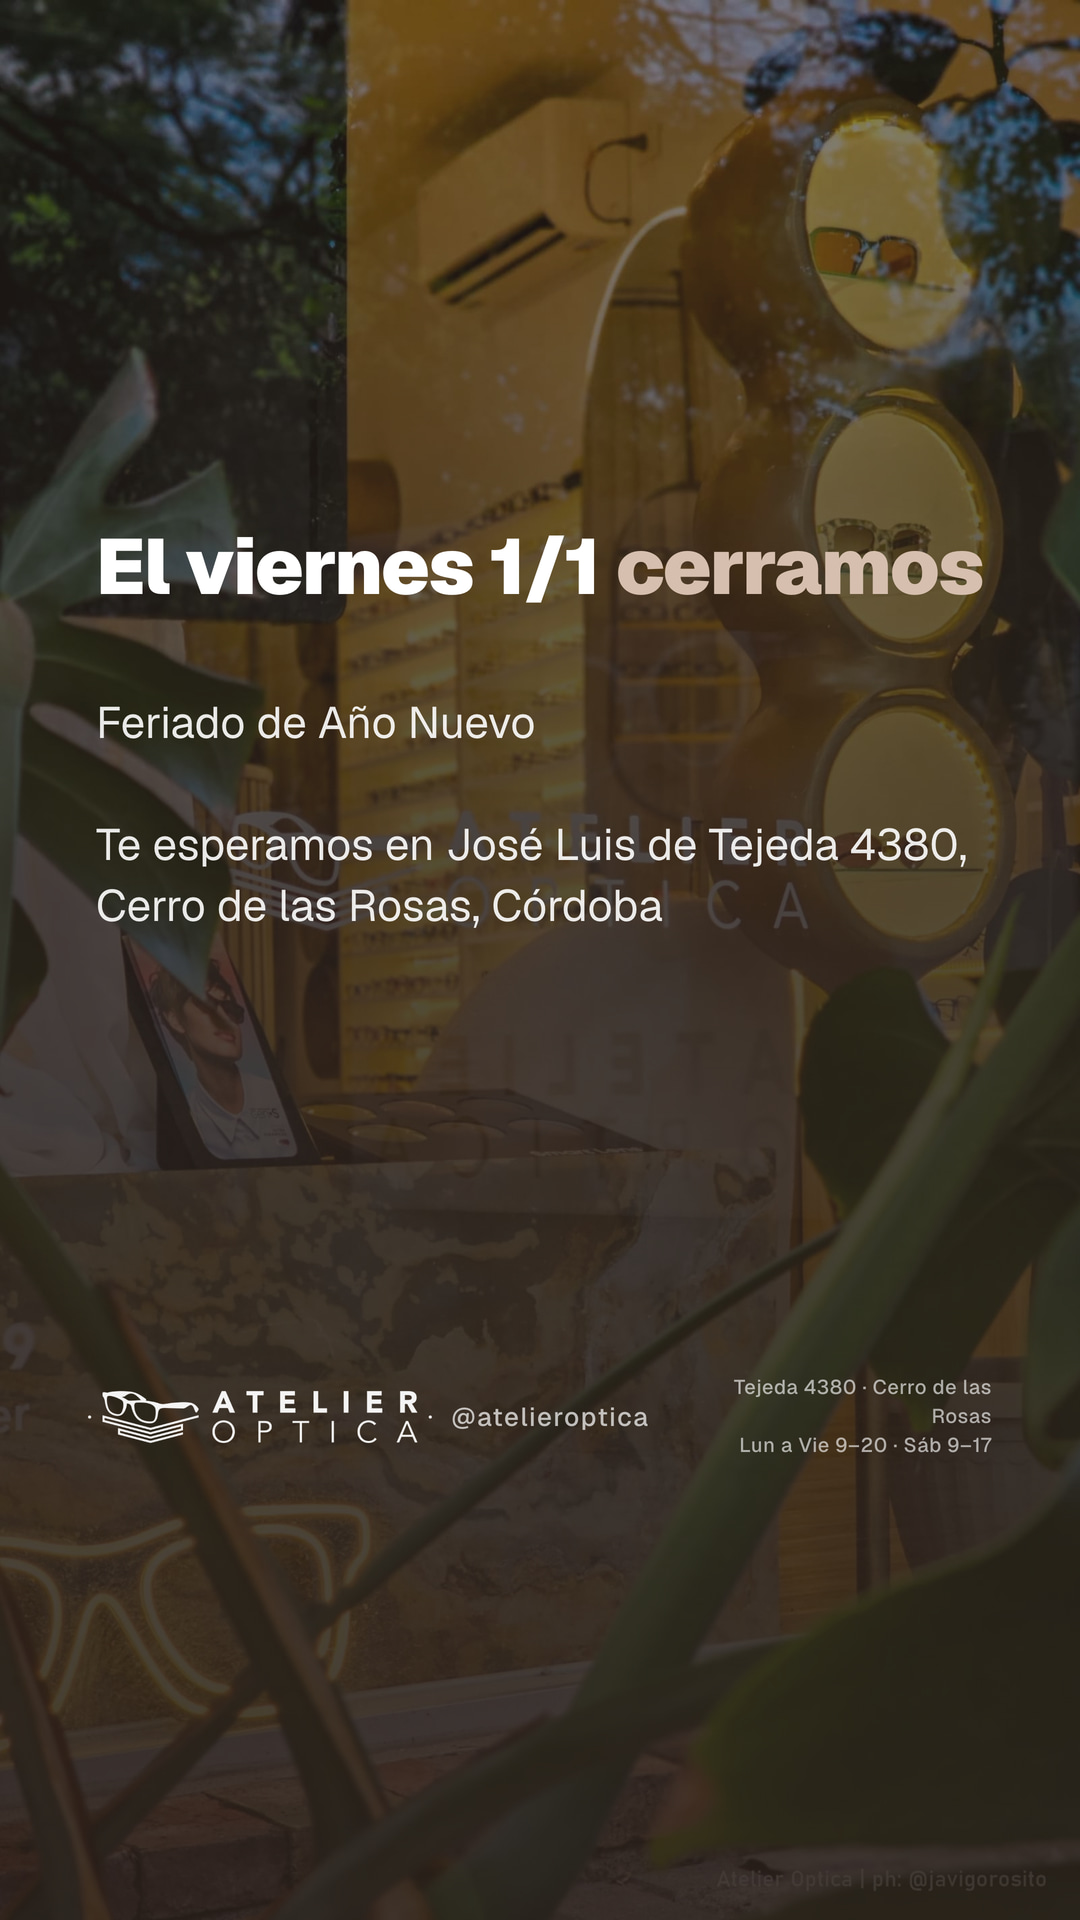
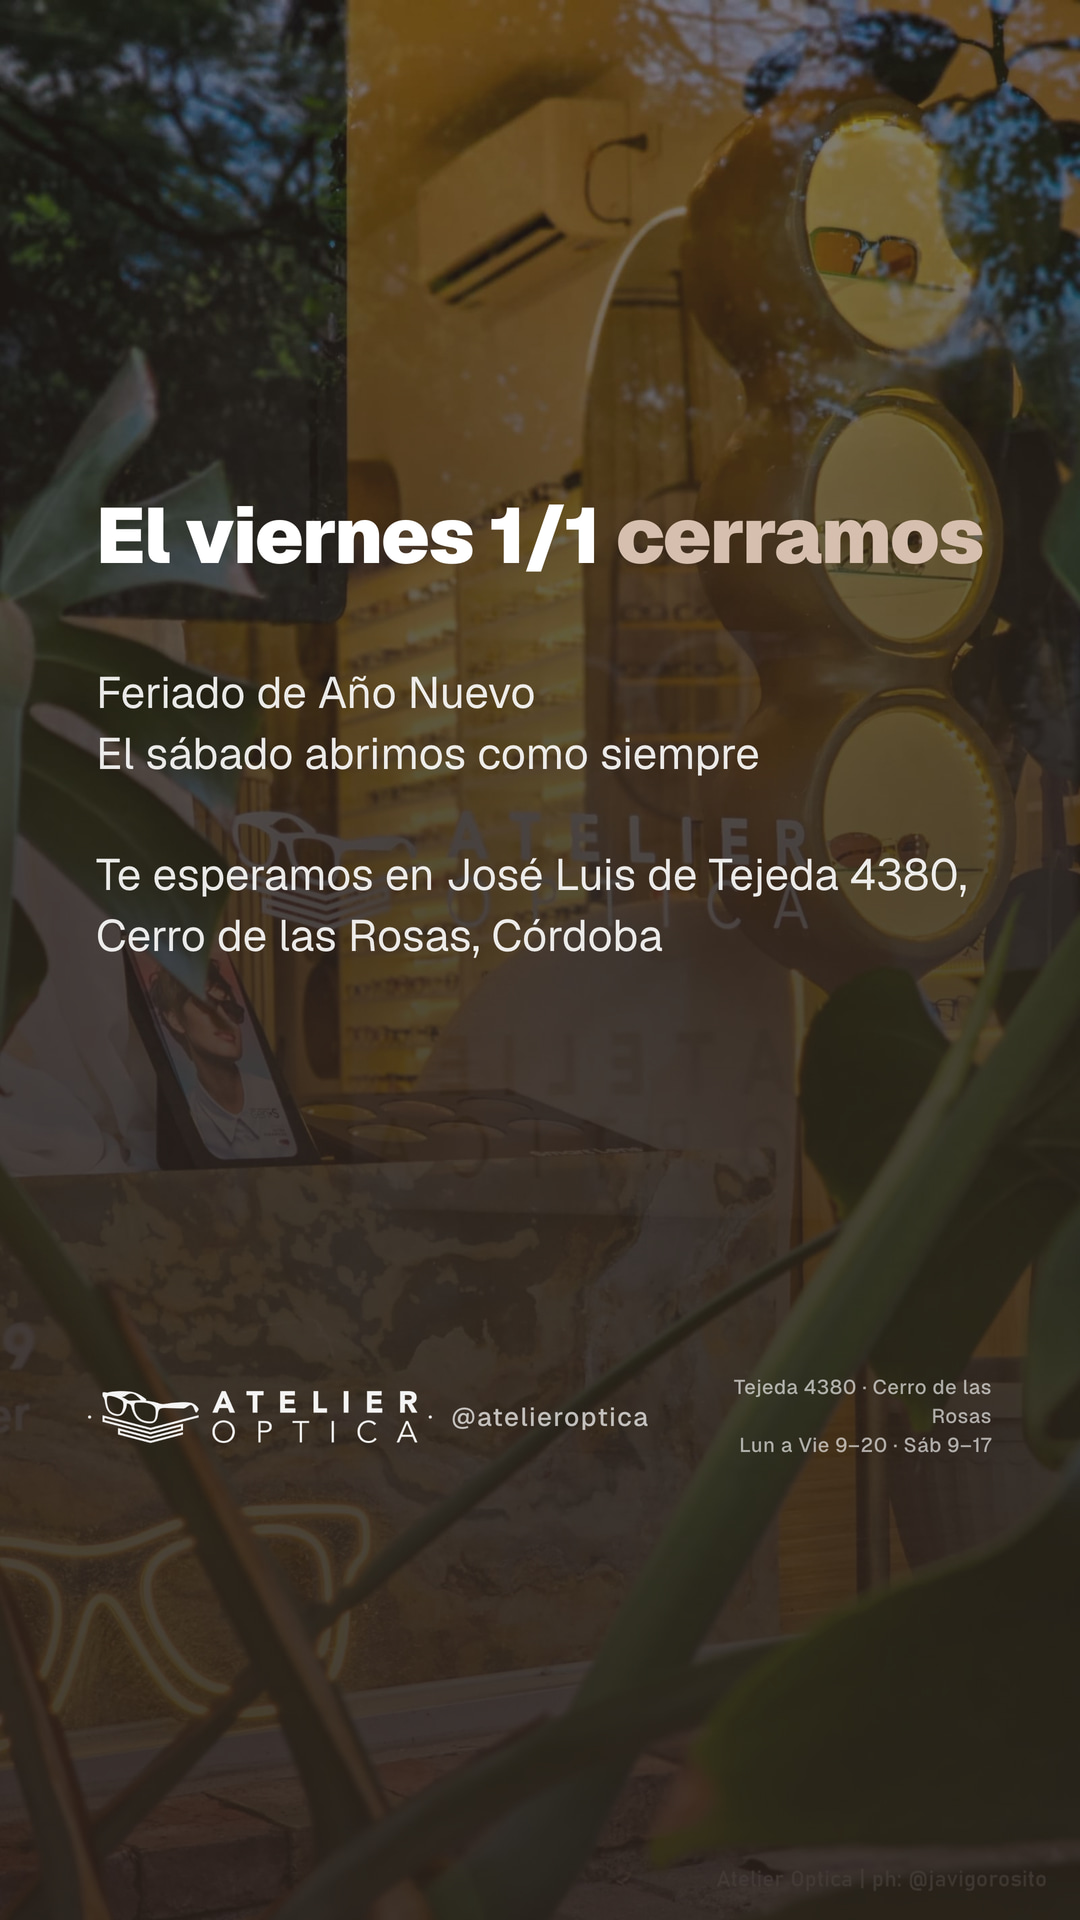
Feriados: el 1/1 avisa que el sábado abrimos como siempre; el generador ignora los fin de línea de Windows al comparar

Changed region(s): [[0.0917, 0.25, 0.9167, 0.3125], [0.0917, 0.4375, 0.8861, 0.5], [0.0917, 0.3438, 0.7028, 0.4062]]

diff --git a/src/lib/constants/feriados-argentina.ts b/src/lib/constants/feriados-argentina.ts
@@ -84,7 +84,7 @@ export const FERIADOS_ARGENTINA: Feriado[] = ([
     { fecha: '2026-12-25', nombre: 'Navidad', apertura: { cerrado: true, nota: 'el sábado abrimos como siempre' } },
     { fecha: '2026-12-31', nombre: 'Fin de año', tipo: 'HORARIO_ESPECIAL', apertura: { abre: '09:00', cierra: '18:00' } },
     // 2027 (por regla; revisar con el decreto)
-    { fecha: '2027-01-01', nombre: 'Año Nuevo', apertura: { cerrado: true } },
+    { fecha: '2027-01-01', nombre: 'Año Nuevo', apertura: { cerrado: true, nota: 'el sábado abrimos como siempre' } },
     { fecha: '2027-02-08', nombre: 'Carnaval' },
     { fecha: '2027-02-09', nombre: 'Carnaval' },
     { fecha: '2027-03-24', nombre: 'Día de la Memoria' },

diff --git a/scripts/social/generar-stories-feriados.ts b/scripts/social/generar-stories-feriados.ts
@@ -32,7 +32,7 @@ for (const f of FERIADOS_ARGENTINA) {
     const jpg = path.join(RAIZ, 'public', 'social', pieza.id, '01.jpg');
     // Si el texto no cambió y la placa existe, no se re-renderiza: un JPEG
     // nuevo con los mismos píxeles igual ensucia el git.
-    if (existsSync(json) && existsSync(jpg) && readFileSync(json, 'utf-8') === texto) { iguales++; continue; }
+    if (existsSync(json) && existsSync(jpg) && readFileSync(json, 'utf-8').replace(/\r\n/g, '\n') === texto) { iguales++; continue; }
     writeFileSync(json, texto);
     execFileSync('node', [path.join(RAIZ, 'scripts', 'social', 'render.mjs'), json], { stdio: 'inherit' });
     hechas++;
